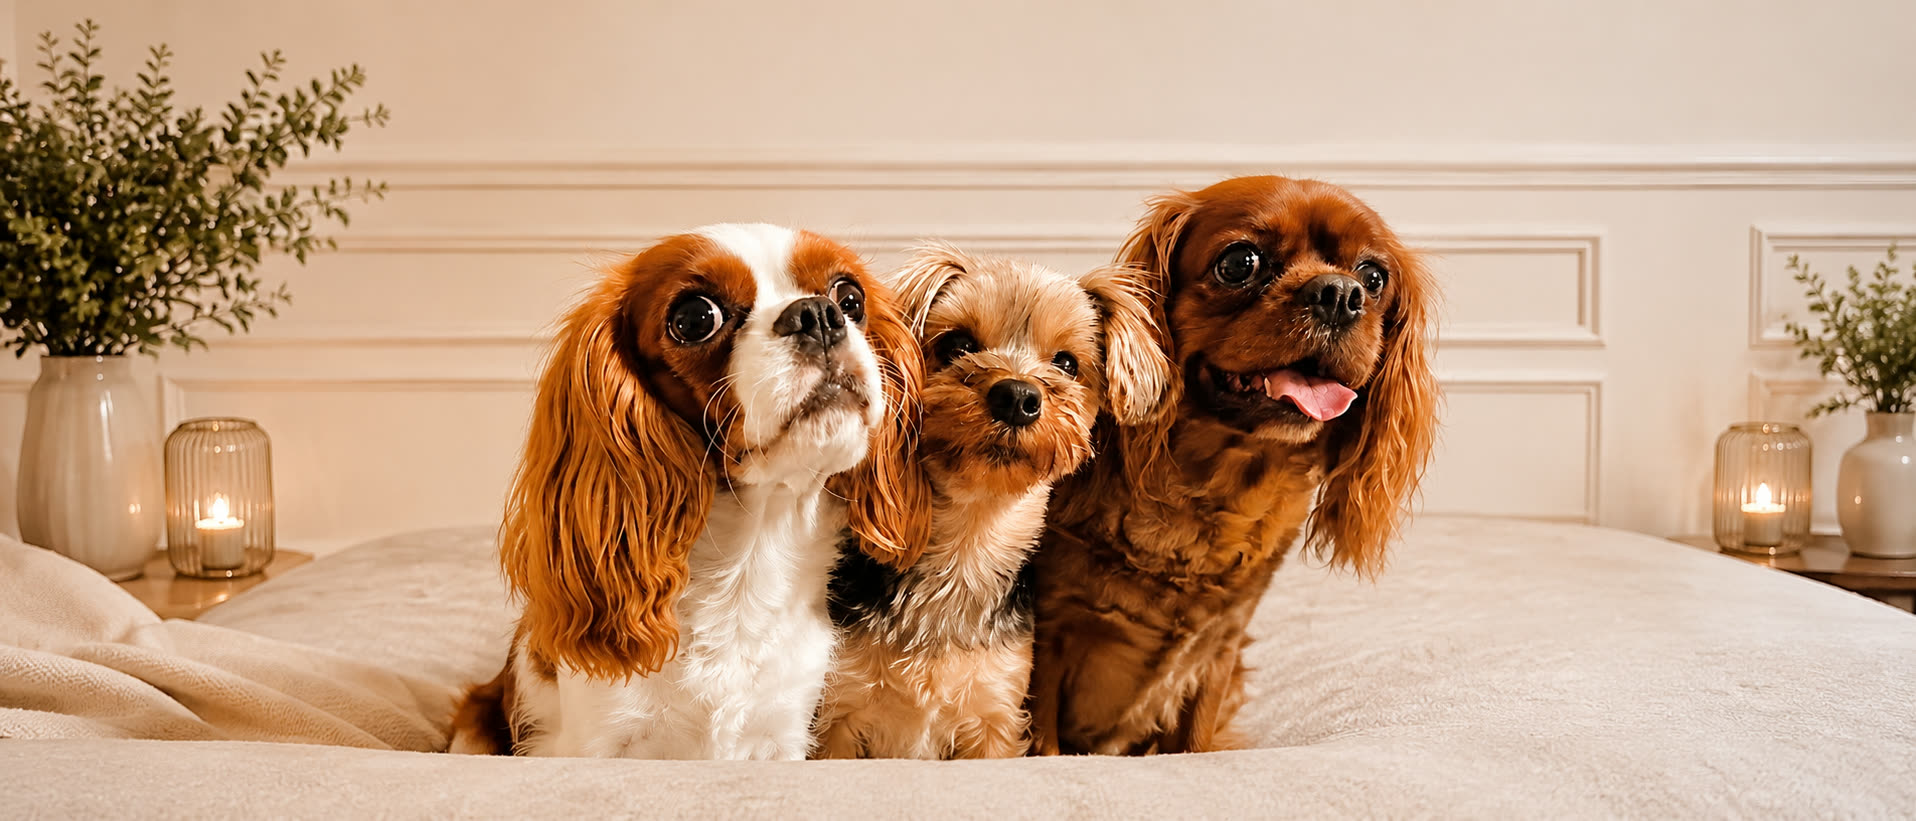
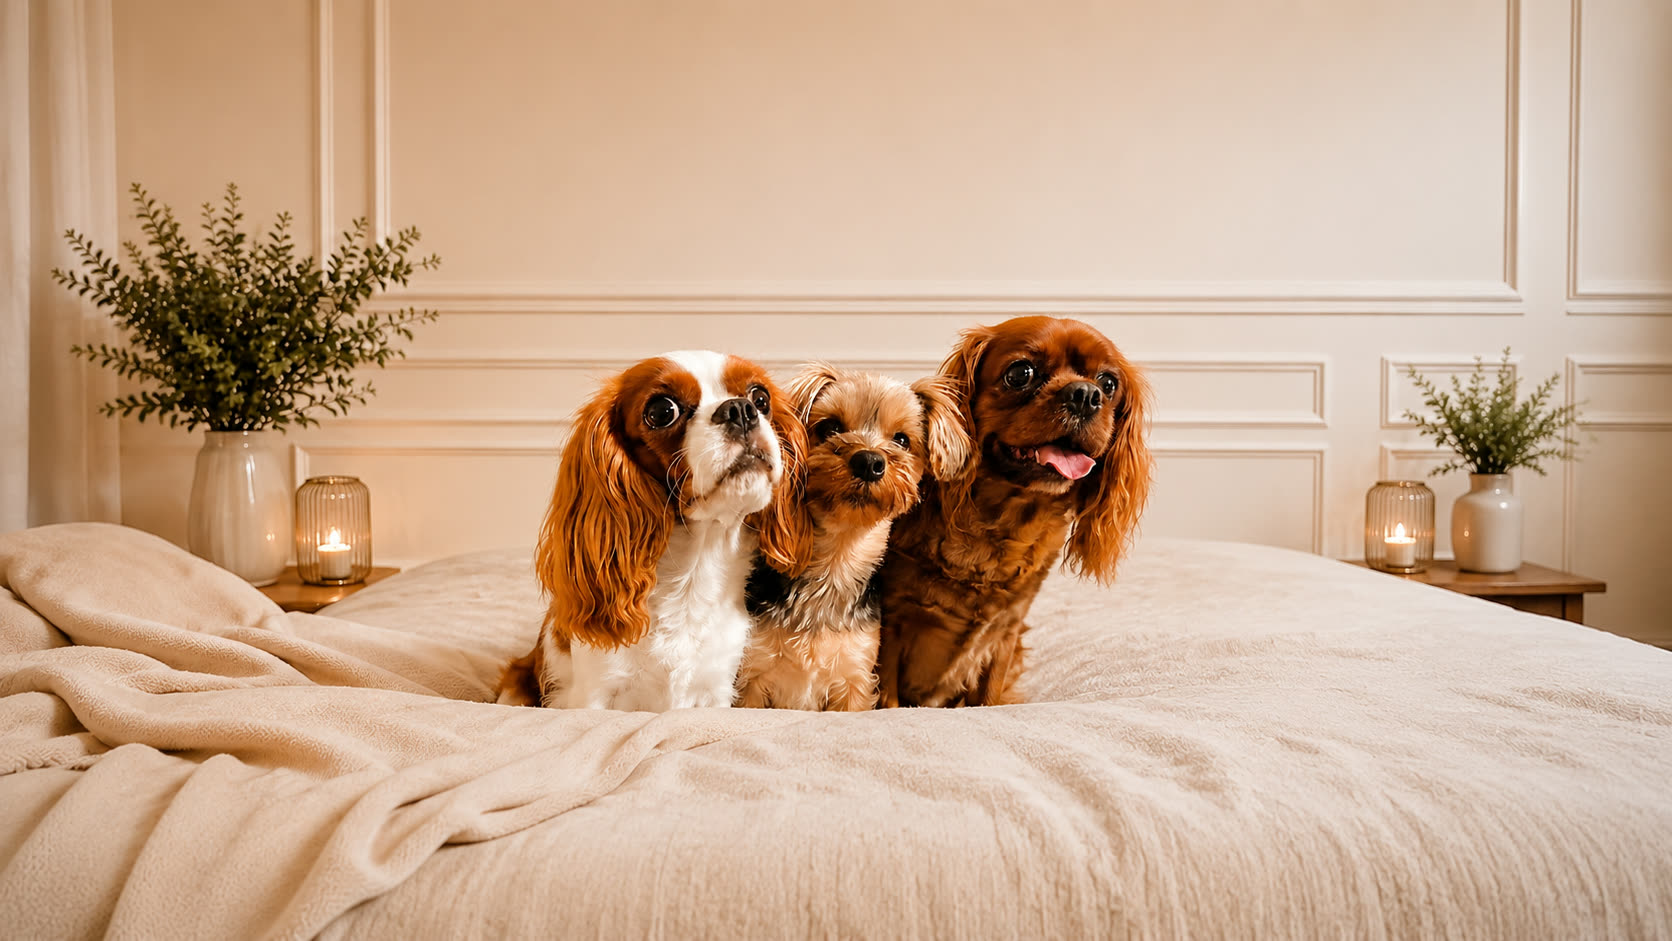
カート/注文手続き/注文確認のヒーロー帯を3匹の犬画像に統一

diff --git a/checkout-confirm.html b/checkout-confirm.html
@@ -24,7 +24,52 @@
   <link rel="stylesheet" href="css/overrides.css?v=20260520">
 
   <style>
-    .confirm-container { max-width: 880px; margin: 0 auto; padding: 120px 24px 80px; }
+    /* ヒーロー */
+    .confirm-hero {
+      position: relative;
+      overflow: hidden;
+      min-height: 300px;
+      display: flex;
+      flex-direction: column;
+      align-items: center;
+      justify-content: center;
+      padding: 135px 20px 75px;
+      text-align: center;
+    }
+    .confirm-hero-bg {
+      position: absolute;
+      inset: 0;
+      background-image: url('images/hero/cart-dogs.jpg');
+      background-size: cover;
+      background-position: center 35%;
+      transform: scale(1.03);
+    }
+    .confirm-hero-overlay {
+      position: absolute;
+      inset: 0;
+      background: linear-gradient(to bottom,
+        rgba(17,17,17,0.55) 0%,
+        rgba(17,17,17,0.45) 50%,
+        rgba(17,17,17,0.65) 100%);
+    }
+    .confirm-hero-text { position: relative; z-index: 1; }
+    .confirm-hero-en {
+      font-family: 'Cinzel', serif;
+      font-size: 12px;
+      letter-spacing: 5px;
+      color: rgba(255,255,255,0.6);
+      margin-bottom: 10px;
+    }
+    .confirm-hero h1 {
+      font-family: 'Noto Serif JP', serif;
+      font-size: 28px;
+      color: #FFFFFF;
+      letter-spacing: 6px;
+    }
+    @media (max-width: 767px) {
+      .confirm-hero { min-height: 260px; padding: 90px 20px 50px; }
+    }
+    .confirm-container { max-width: 880px; margin: 0 auto; padding: 48px 24px 80px; }
     .confirm-title {
       font-family: 'Noto Serif JP', serif;
       font-size: 24px;
@@ -229,8 +274,17 @@
     </div>
   </header>
 
+  <!-- ヒーロー -->
+  <div class="confirm-hero">
+    <div class="confirm-hero-bg"></div>
+    <div class="confirm-hero-overlay"></div>
+    <div class="confirm-hero-text">
+      <p class="confirm-hero-en">── CONFIRM ──</p>
+      <h1>ご注文内容の確認</h1>
+    </div>
+  </div>
+
   <main class="confirm-container">
-    <h1 class="confirm-title">ご注文内容の確認</h1>
     <p class="confirm-sub">下記の内容でよろしければ「注文を確定する」を押してください</p>
 
     <div class="confirm-steps">

diff --git a/checkout.html b/checkout.html
@@ -27,24 +27,48 @@
   <style>
     /* ヒーロー */
     .checkout-hero {
-      background: url('images/hero/twoblackpuppys.jpg') center/cover no-repeat;
-      padding: 90px 20px 36px;
-      text-align: center;
       position: relative;
       overflow: hidden;
+      min-height: 300px;
+      display: flex;
+      flex-direction: column;
+      align-items: center;
+      justify-content: center;
+      padding: 135px 20px 75px;
+      text-align: center;
+    }
+    .checkout-hero-bg {
+      position: absolute;
+      inset: 0;
+      background-image: url('images/hero/cart-dogs.jpg');
+      background-size: cover;
+      background-position: center 35%;
+      transform: scale(1.03);
+    }
+    .checkout-hero-overlay {
+      position: absolute;
+      inset: 0;
+      background: linear-gradient(to bottom,
+        rgba(17,17,17,0.55) 0%,
+        rgba(17,17,17,0.45) 50%,
+        rgba(17,17,17,0.65) 100%);
+    }
+    .checkout-hero-text {
+      position: relative;
+      z-index: 1;
     }
     .checkout-hero-en {
       font-family: 'Cinzel', serif;
       font-size: 12px;
       letter-spacing: 5px;
-      color: rgba(255,255,255,0.5);
-      margin-bottom: 8px;
+      color: rgba(255,255,255,0.6);
+      margin-bottom: 10px;
     }
     .checkout-hero h1 {
       font-family: 'Noto Serif JP', serif;
-      font-size: 26px;
+      font-size: 28px;
       color: #FFFFFF;
-      letter-spacing: 4px;
+      letter-spacing: 6px;
     }
 
     /* ステッパー */
@@ -92,6 +116,7 @@
     @media (max-width: 767px) {
       .checkout-content { grid-template-columns: 1fr; }
       .checkout-summary { order: -1; }
+      .checkout-hero { min-height: 260px; padding: 90px 20px 50px; }
     }
 
     /* フォームカード */
@@ -326,8 +351,12 @@
 
   <!-- ヒーロー -->
   <div class="checkout-hero">
-    <p class="checkout-hero-en">── CHECKOUT ──</p>
-    <h1>ご注文手続き</h1>
+    <div class="checkout-hero-bg"></div>
+    <div class="checkout-hero-overlay"></div>
+    <div class="checkout-hero-text">
+      <p class="checkout-hero-en">── CHECKOUT ──</p>
+      <h1>ご注文手続き</h1>
+    </div>
   </div>
 
   <!-- ステッパー -->

diff --git a/cart.html b/cart.html
@@ -30,12 +30,12 @@
     .cart-hero {
       position: relative;
       overflow: hidden;
-      min-height: 260px;
+      min-height: 300px;
       display: flex;
       flex-direction: column;
       align-items: center;
       justify-content: center;
-      padding: 90px 20px 50px;
+      padding: 135px 20px 75px;
       text-align: center;
     }
     .cart-hero-bg {
@@ -43,7 +43,7 @@
       inset: 0;
       background-image: url('images/hero/cart-dogs.jpg');
       background-size: cover;
-      background-position: center 25%;
+      background-position: center 35%;
       transform: scale(1.03);
     }
     .cart-hero-overlay {
@@ -84,6 +84,7 @@
     }
     @media (max-width: 767px) {
       .cart-content { grid-template-columns: 1fr; }
+      .cart-hero { min-height: 260px; padding: 90px 20px 50px; }
     }
 
     /* カート空 */
